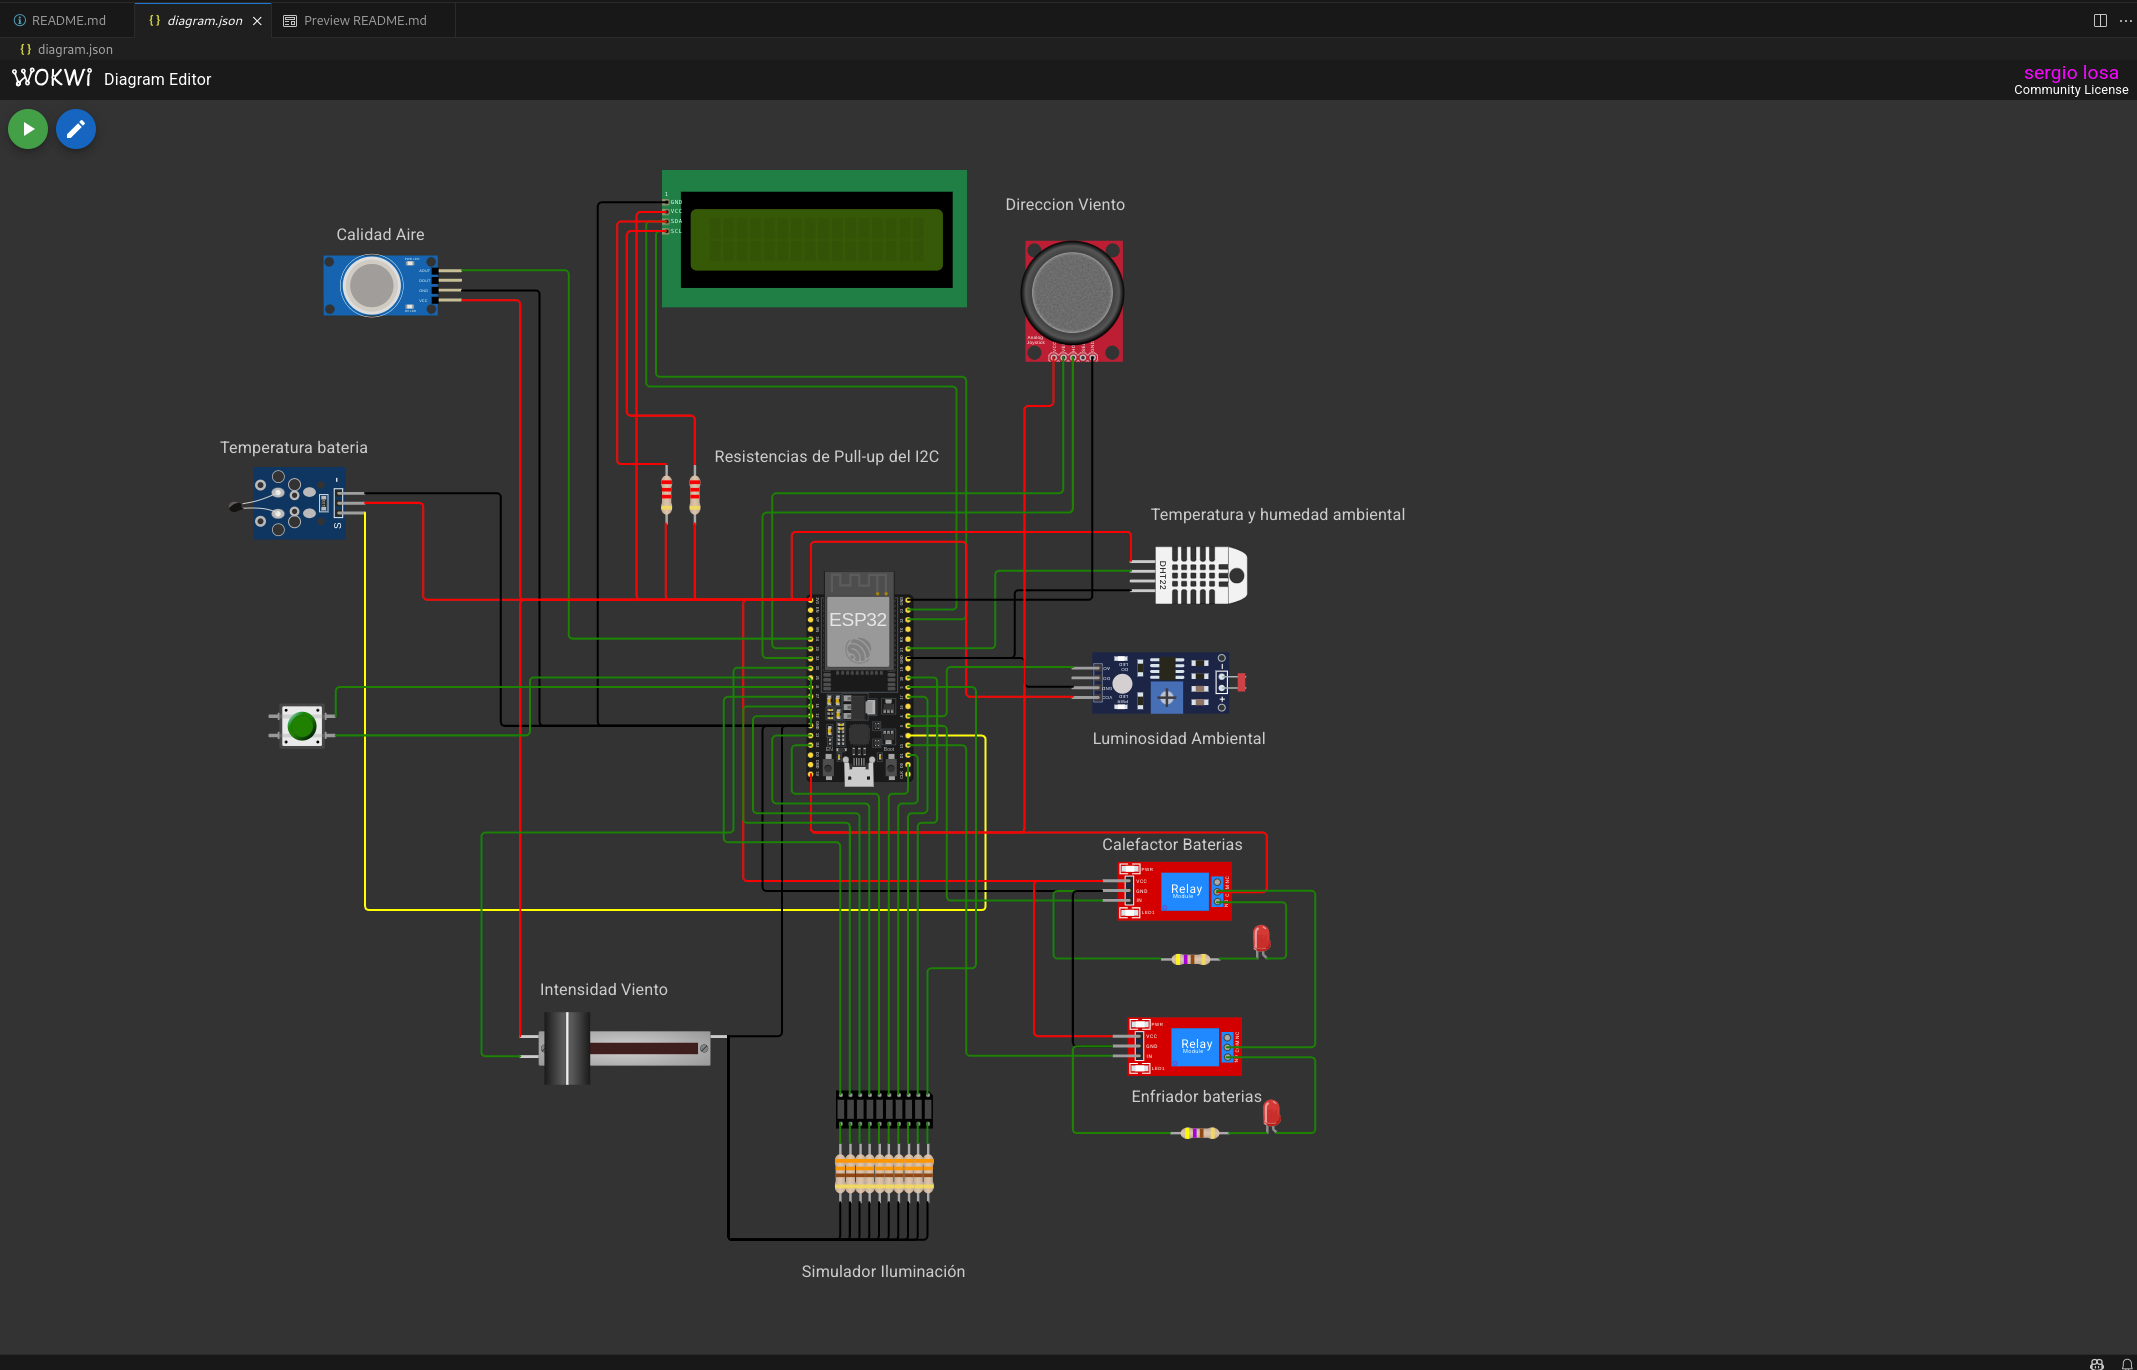
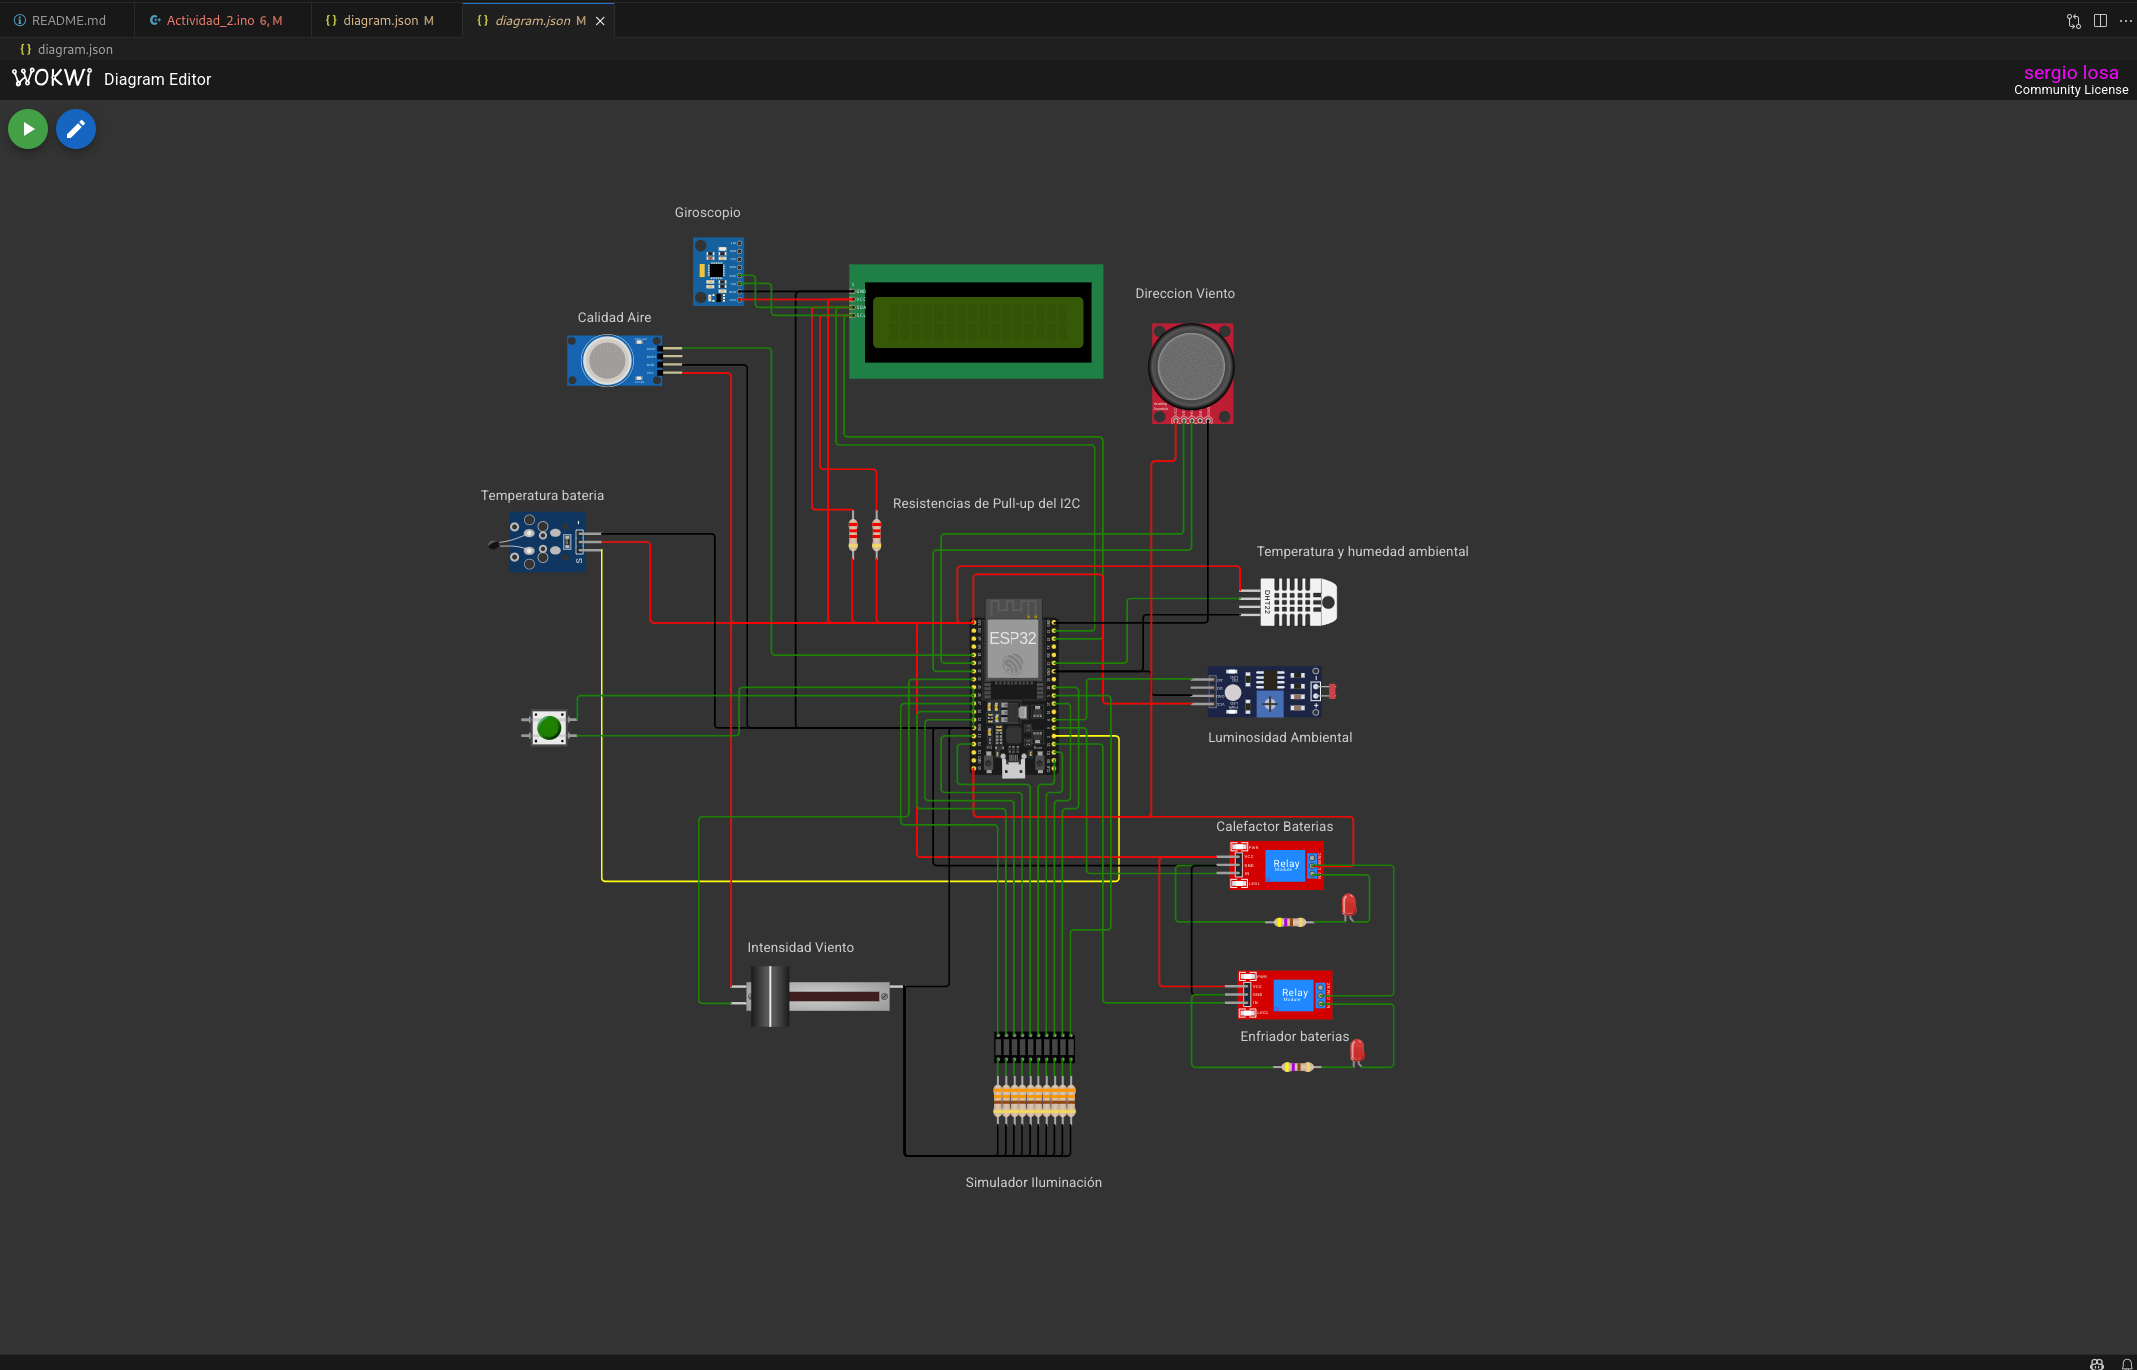
Update sensoring and pictures

diff --git a/README.md b/README.md
@@ -115,6 +115,14 @@ Sensor de GAS que analiza el aire y devuelve un resultado en ppm (partes por mil
 </a>
 
 
+### Acelerómetro
+
+El acelerómetro mide la aceleración lineal que actúa sobre el sensor, en los tres ejes: X, Y y Z, en unidades de m/s² (metros por segundo al cuadrado).
+
+<a href="https://github.com/sergiov2020/EIE_actividad_2/blob/216f931204bfd0a22190bd0926c1d9f73af283aa/imagenes/sensor_gas.png">
+    <img src="https://github.com/sergiov2020/EIE_actividad_2/blob/216f931204bfd0a22190bd0926c1d9f73af283aa/imagenes/sensor_gas.png" width="600" />
+</a>
+
 # Bill of Materials
 
 | Cantidad | Componente                          | Descripción                                          |
@@ -197,6 +205,10 @@ Muestra la intensidad del viento a partir de un valor analógico que se simula c
 ### dirMonitoring()
 
 Evalúa los valores de los ejes vertical y horizontal del viento, simulados a través de un joystick analógico, para determinar su dirección cardinal. 
+
+### accelGyroSensoring()
+
+Evalúa la aceleración en los tres ejes y expresa en el display LCD el valor de cada componente en metro/s²
 
 ## Uso del Sistema
 
